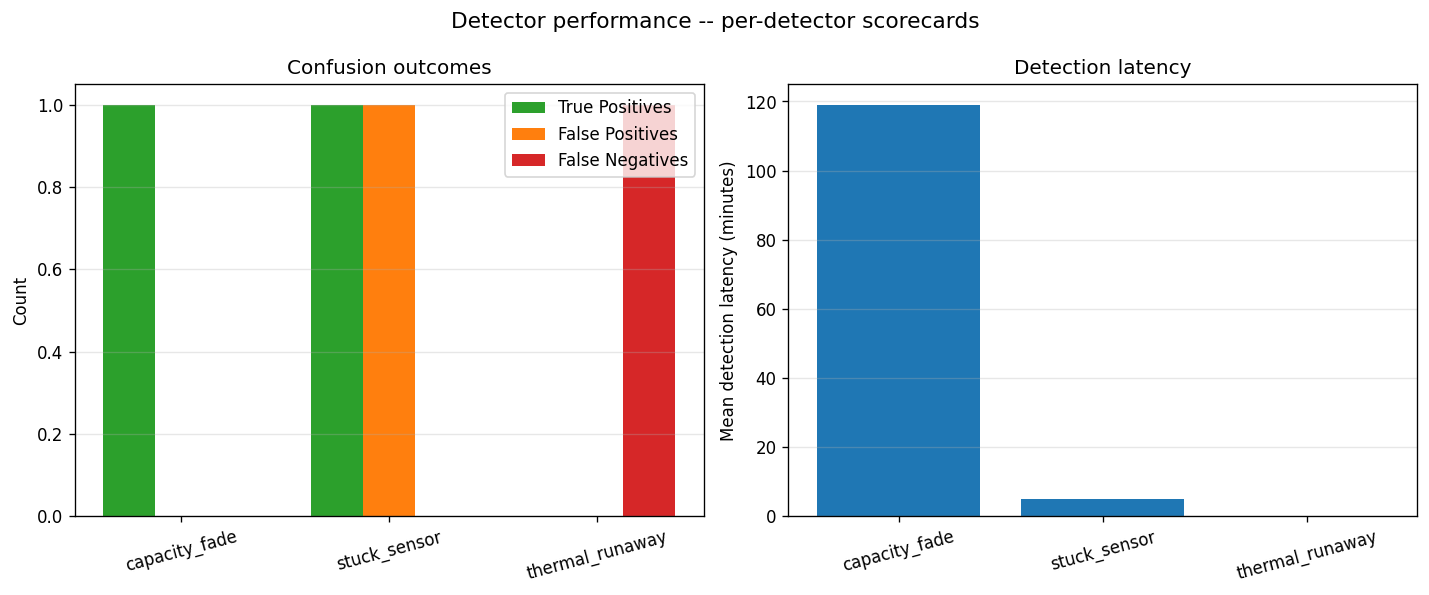
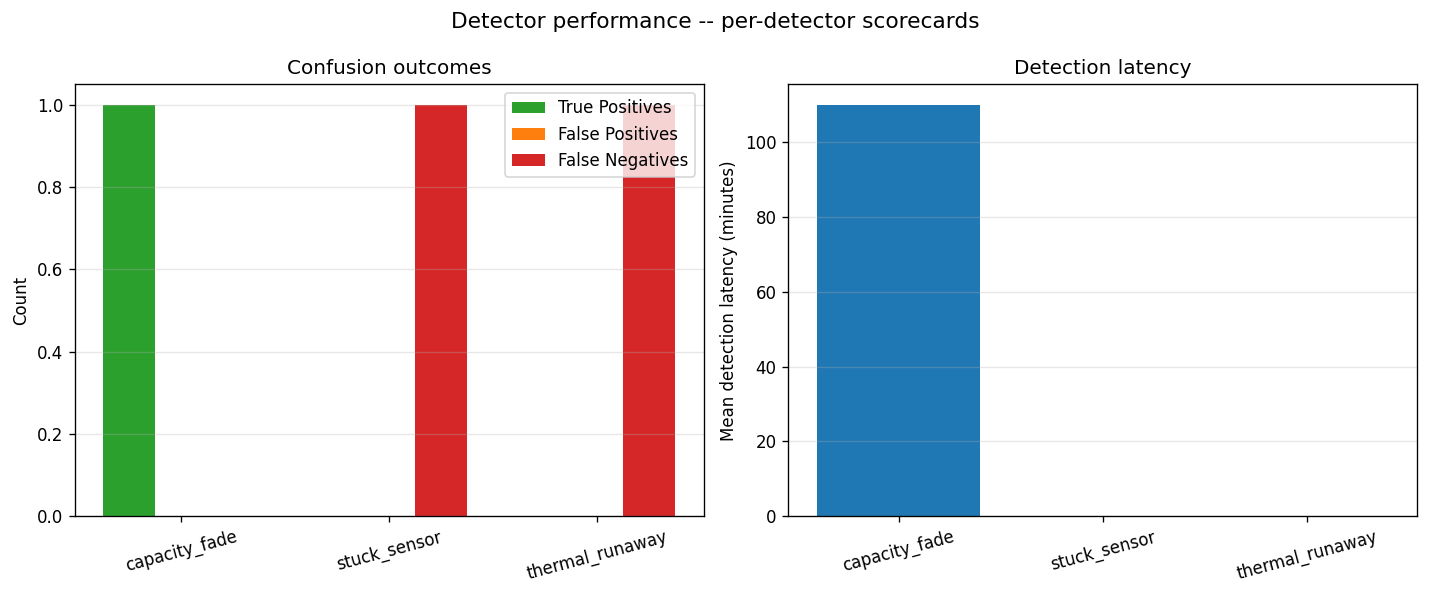
Calibrate stuck-sensor threshold (0.3 K) and runaway rate (8 K/hr); 1/3 TP, 0 FP

diff --git a/src/orbit_ops/detection/detectors.py b/src/orbit_ops/detection/detectors.py
@@ -119,12 +119,16 @@ class StuckSensorDetector:
     sat_id: str
     thermal_mass_j_per_k: float = 110.0 * 900.0
     """m * c for the bus. Defaults to SkySat-class values from subsystem_params."""
-    residual_threshold_k: float = 0.05
-    """Per-minute residual threshold (K). Calibrated against SkySat-class
-    thermal mass (110 kg x 900 J/kg/K = 99,000 J/K), which yields nominal
-    per-minute dT ~ 0.006 K under typical net heat flows. 0.05 K is ~8x
-    the nominal signal floor, suppressing noise while matching the physics
-    scale."""
+    residual_threshold_k: float = 0.3
+    """Per-minute residual threshold (K). Calibrated to be larger than the
+    residuals produced by eclipse transitions on nominal sats (where rapid
+    heat-balance swings make the predicted dT large and small prediction
+    errors read as larger residuals), while remaining well below the
+    sustained residual produced by an actually stuck sensor (which holds
+    the value while heat balance keeps swinging, producing residuals on
+    the order of the full predicted dT swing -- often several K). The
+    earlier value of 0.05 was calibrated against typical mid-orbit net
+    heat flows but produced false positives on eclipse transitions."""
     consecutive_minutes_required: int = 5
     """Number of consecutive minutes above threshold before firing.
     Suppresses false positives from numerical noise."""
